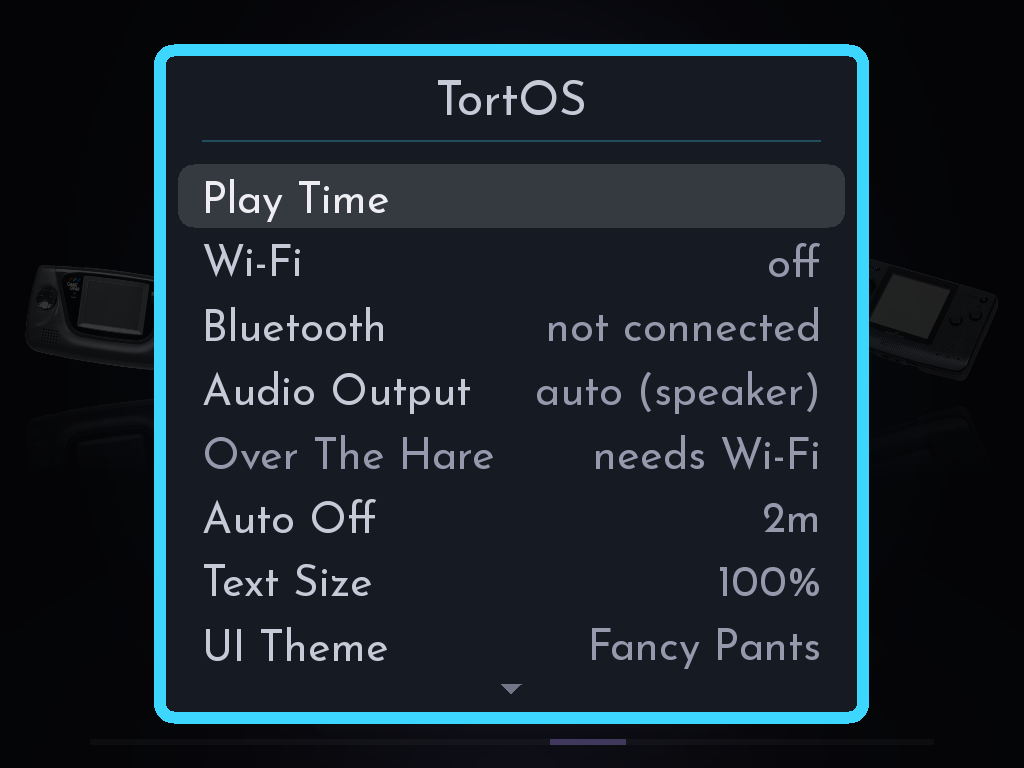
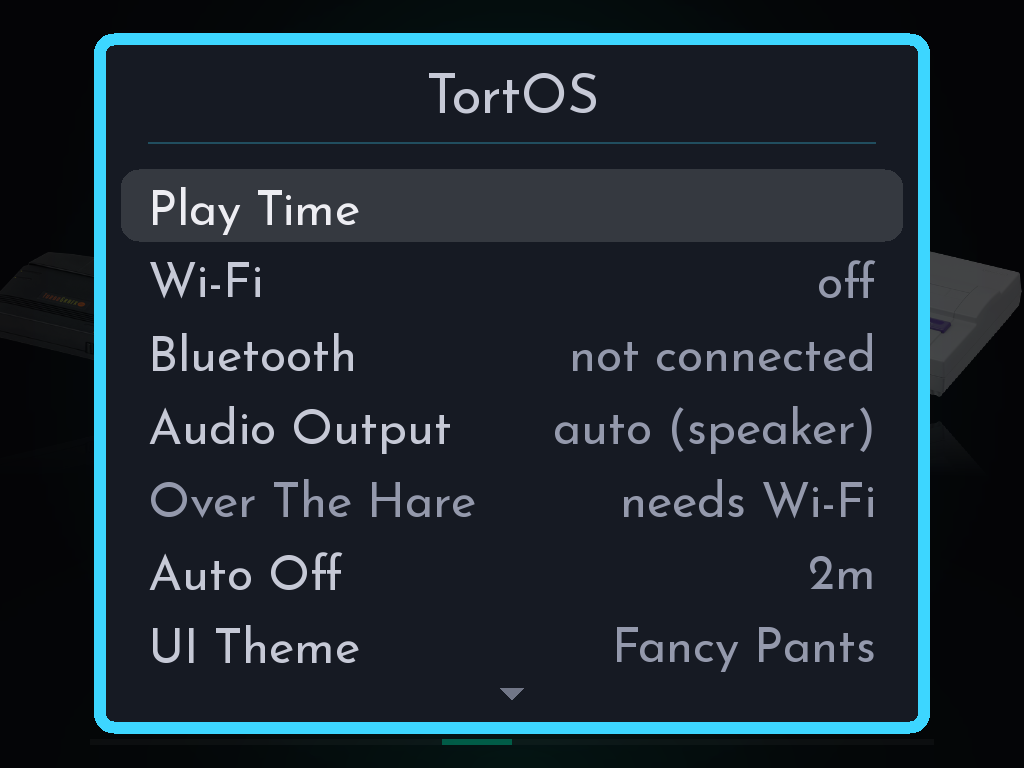
README: Muse in the screenshots, and two retaken
A row for Muse under the other six: its shelf of albums, and Now
Playing. Two where the rows above have three, so the grid is six
columns wide and each image spans two of them or three.

Two of the existing images had gone stale. menu.png still had the Text
Size row, which is gone, and info.png showed the game details screen's
old rows: File, Size, Saves, Box Art and Favorite. Both are retaken
from the host harness. The details shot is Streets of Rage 2 rather
than Gunstar Heroes, whose genre is too long for its row and was caught
cut off mid-scroll.

Changed region(s): [[0.0312, 0.0312, 1.0, 0.9688]]

diff --git a/README.md b/README.md
@@ -22,14 +22,18 @@
 
 <table>
   <tr>
-    <td align="center"><img src="res/readme/systems.png" width="240" alt="The consoles row"><br><sub>Scroll horizontally</sub></td>
-    <td align="center"><img src="res/readme/vertical.png" width="240" alt="The shelf standing on end"><br><sub>Vertically</sub></td>
-    <td align="center"><img src="res/readme/cubic.png" width="240" alt="The cube"><br><sub>Or as a cube</sub></td>
+    <td align="center" colspan="2"><img src="res/readme/systems.png" width="240" alt="The consoles row"><br><sub>Scroll horizontally</sub></td>
+    <td align="center" colspan="2"><img src="res/readme/vertical.png" width="240" alt="The shelf standing on end"><br><sub>Vertically</sub></td>
+    <td align="center" colspan="2"><img src="res/readme/cubic.png" width="240" alt="The cube"><br><sub>Or as a cube</sub></td>
   </tr>
   <tr>
-    <td align="center"><img src="res/readme/info.png" width="240" alt="A game's details"><br><sub>A game's details, one button away</sub></td>
-    <td align="center"><img src="res/readme/cheevos.png" width="240" alt="An achievements list"><br><sub>RetroAchievements on the device</sub></td>
-    <td align="center"><img src="res/readme/menu.png" width="240" alt="The TortOS menu"><br><sub>The Brick's settings in one menu</sub></td>
+    <td align="center" colspan="2"><img src="res/readme/info.png" width="240" alt="A game's details"><br><sub>A game's details, one button away</sub></td>
+    <td align="center" colspan="2"><img src="res/readme/cheevos.png" width="240" alt="An achievements list"><br><sub>RetroAchievements on the device</sub></td>
+    <td align="center" colspan="2"><img src="res/readme/menu.png" width="240" alt="The TortOS menu"><br><sub>The Brick's settings in one menu</sub></td>
+  </tr>
+  <tr>
+    <td align="center" colspan="3"><img src="res/readme/muse.png" width="240" alt="Muse's shelf of albums, with The Bends in focus"><br><sub>Your albums, in Muse</sub></td>
+    <td align="center" colspan="3"><img src="res/readme/nowplaying.png" width="240" alt="Muse's Now Playing"><br><sub>Now Playing, on SELECT from anywhere</sub></td>
   </tr>
 </table>
 
